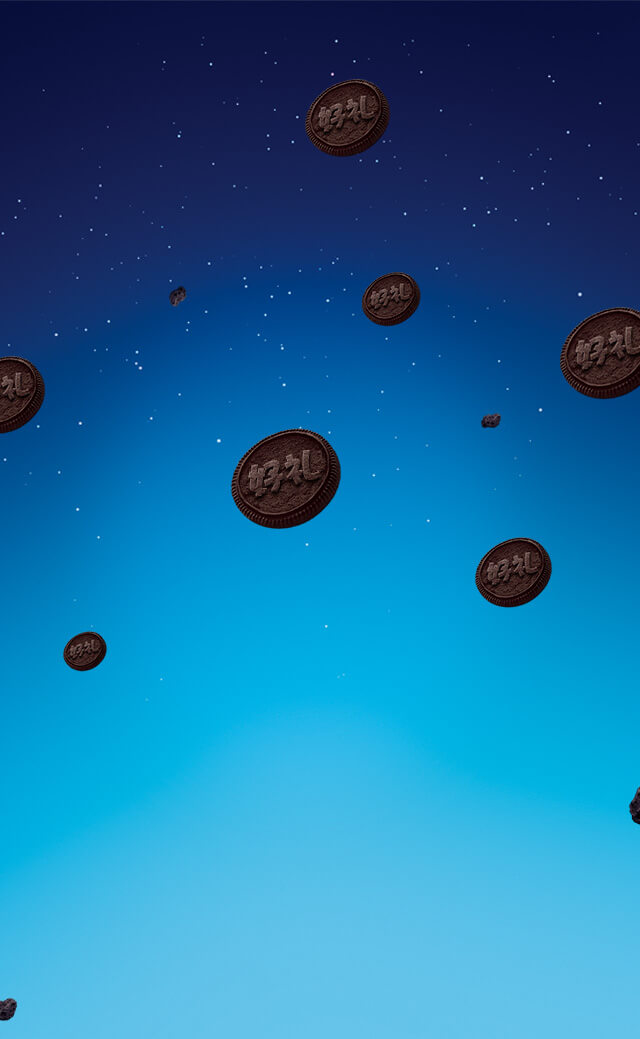
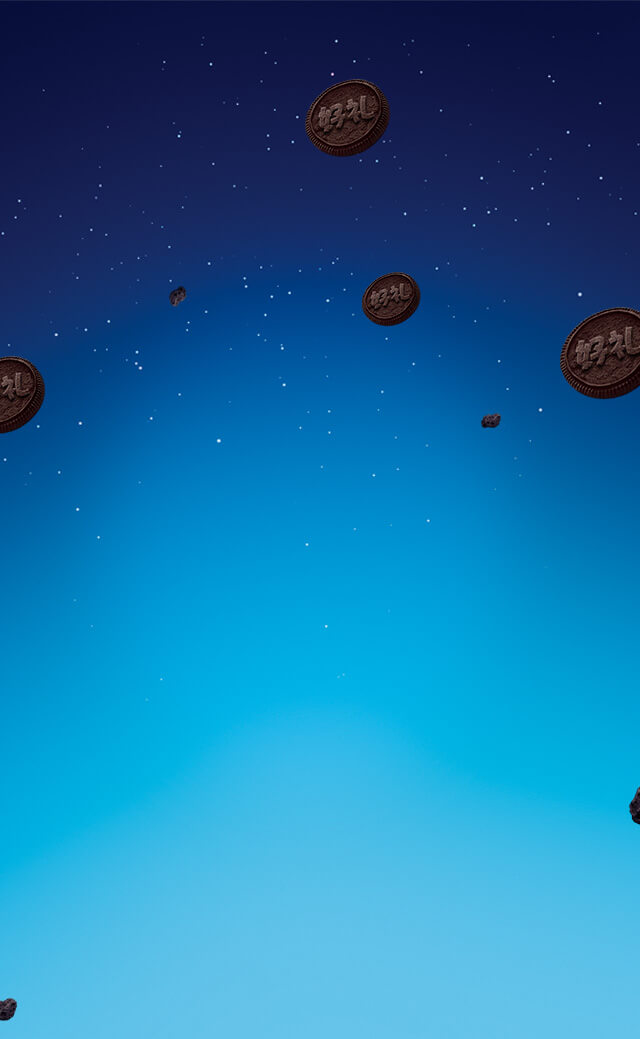
upload 2

Changed region(s): [[0.3438, 0.4004, 0.5312, 0.5236], [0.7188, 0.4928, 0.875, 0.5852], [0.0938, 0.5852, 0.1875, 0.6468]]

diff --git a/public_html/assets/js/common.js b/public_html/assets/js/common.js
@@ -46,6 +46,10 @@ function loadingImg() {
     images.push("/assets/images/page4Img1.jpg");
     images.push("/assets/images/listBg.png");
     images.push("/assets/images/ruleBg.png");
+	
+	images.push("/assets/images/c01.png");
+	images.push("/assets/images/c02.png");
+	images.push("/assets/images/c03.png");
 
 
 
@@ -136,11 +140,15 @@ function shot() {
             setTimeout(function() {
                 $('.buttlet').fadeOut(100);
                 $('.creamOpen').addClass('creamOpen2').show();
-				$('.choImg').addClass('choImg2').show();
+				setTimeout(function(){
+					$('.creamOpen').hide();
+					$('.c02').hide();
+					$('.choImg').addClass('choImg2').show();
+					},500);
             }, 500);
             setTimeout(function() {
                 goEnd();
-            }, 1500);
+            }, 2000);
         } else if (shotStep >= -10 && shotStep <= 10) {
             $('.shotBtn').hide();
             clearInterval(shotTime);
@@ -148,11 +156,15 @@ function shot() {
             setTimeout(function() {
                 $('.buttlet').fadeOut(100);
                 $('.creamOpen').show();
-				$('.choImg').show();
+				setTimeout(function(){
+					$('.creamOpen').hide();
+					$('.c01').hide();
+					$('.choImg').show();
+					},500);
             }, 500);
             setTimeout(function() {
                 goEnd();
-            }, 1500);
+            }, 2000);
         } else if (shotStep >= 30 && shotStep <= 45) {
             $('.shotBtn').hide();
             clearInterval(shotTime);
@@ -160,11 +172,15 @@ function shot() {
             setTimeout(function() {
                 $('.buttlet').fadeOut(100);
                 $('.creamOpen').addClass('creamOpen3').show();
-				$('.choImg').addClass('choImg3').show();
+				setTimeout(function(){
+					$('.creamOpen').hide();
+					$('.c03').hide();
+					$('.choImg').addClass('choImg3').show();
+					},500);
             }, 500);
             setTimeout(function() {
                 goEnd();
-            }, 1500);
+            }, 2000);
         } else {
             if (shotStep >= 0) {
                 $('.buttlet').css('-webkit-transform', 'rotate(' + shotStep + 'deg)').animate({

diff --git a/public_html/assets/css/common.css b/public_html/assets/css/common.css
@@ -83,6 +83,10 @@ select,input,textarea{font-family:inherit; outline:none;}
 0%{ -webkit-transform: translate(0,0);}
 100%{ -webkit-transform: translate(0,-1100px);}
 }
+.cImg{ width:640px; height:1039px; display:block; left:0; bottom:0;}
+.c01{ background:url(http://event.kisseschina.com/assets/images/c1.png) 0 0 no-repeat;}
+.c02{ background:url(http://event.kisseschina.com/assets/images/c2.png) 0 0 no-repeat;}
+.c03{ background:url(http://event.kisseschina.com/assets/images/c3.png) 0 0 no-repeat;}
 
 /*page3*/
 .page3{ background:url(http://event.kisseschina.com/assets/images/page3Img1.jpg) 0 0 no-repeat;}

diff --git a/resources/views/index.blade.php b/resources/views/index.blade.php
@@ -26,6 +26,9 @@
 
         <div class="page page2" ontouchend="shot();" style="display:none;">
             <div class="innerDiv">
+            	<div class="abs cImg c01"></div>
+                <div class="abs cImg c02"></div>
+                <div class="abs cImg c03"></div>
             	<div class="abs hander"></div>
             	<div class="abs man"></div>
                 <img src="{{asset('assets/images/choImg.png')}}" class="abs choImg" style="display:none;">
